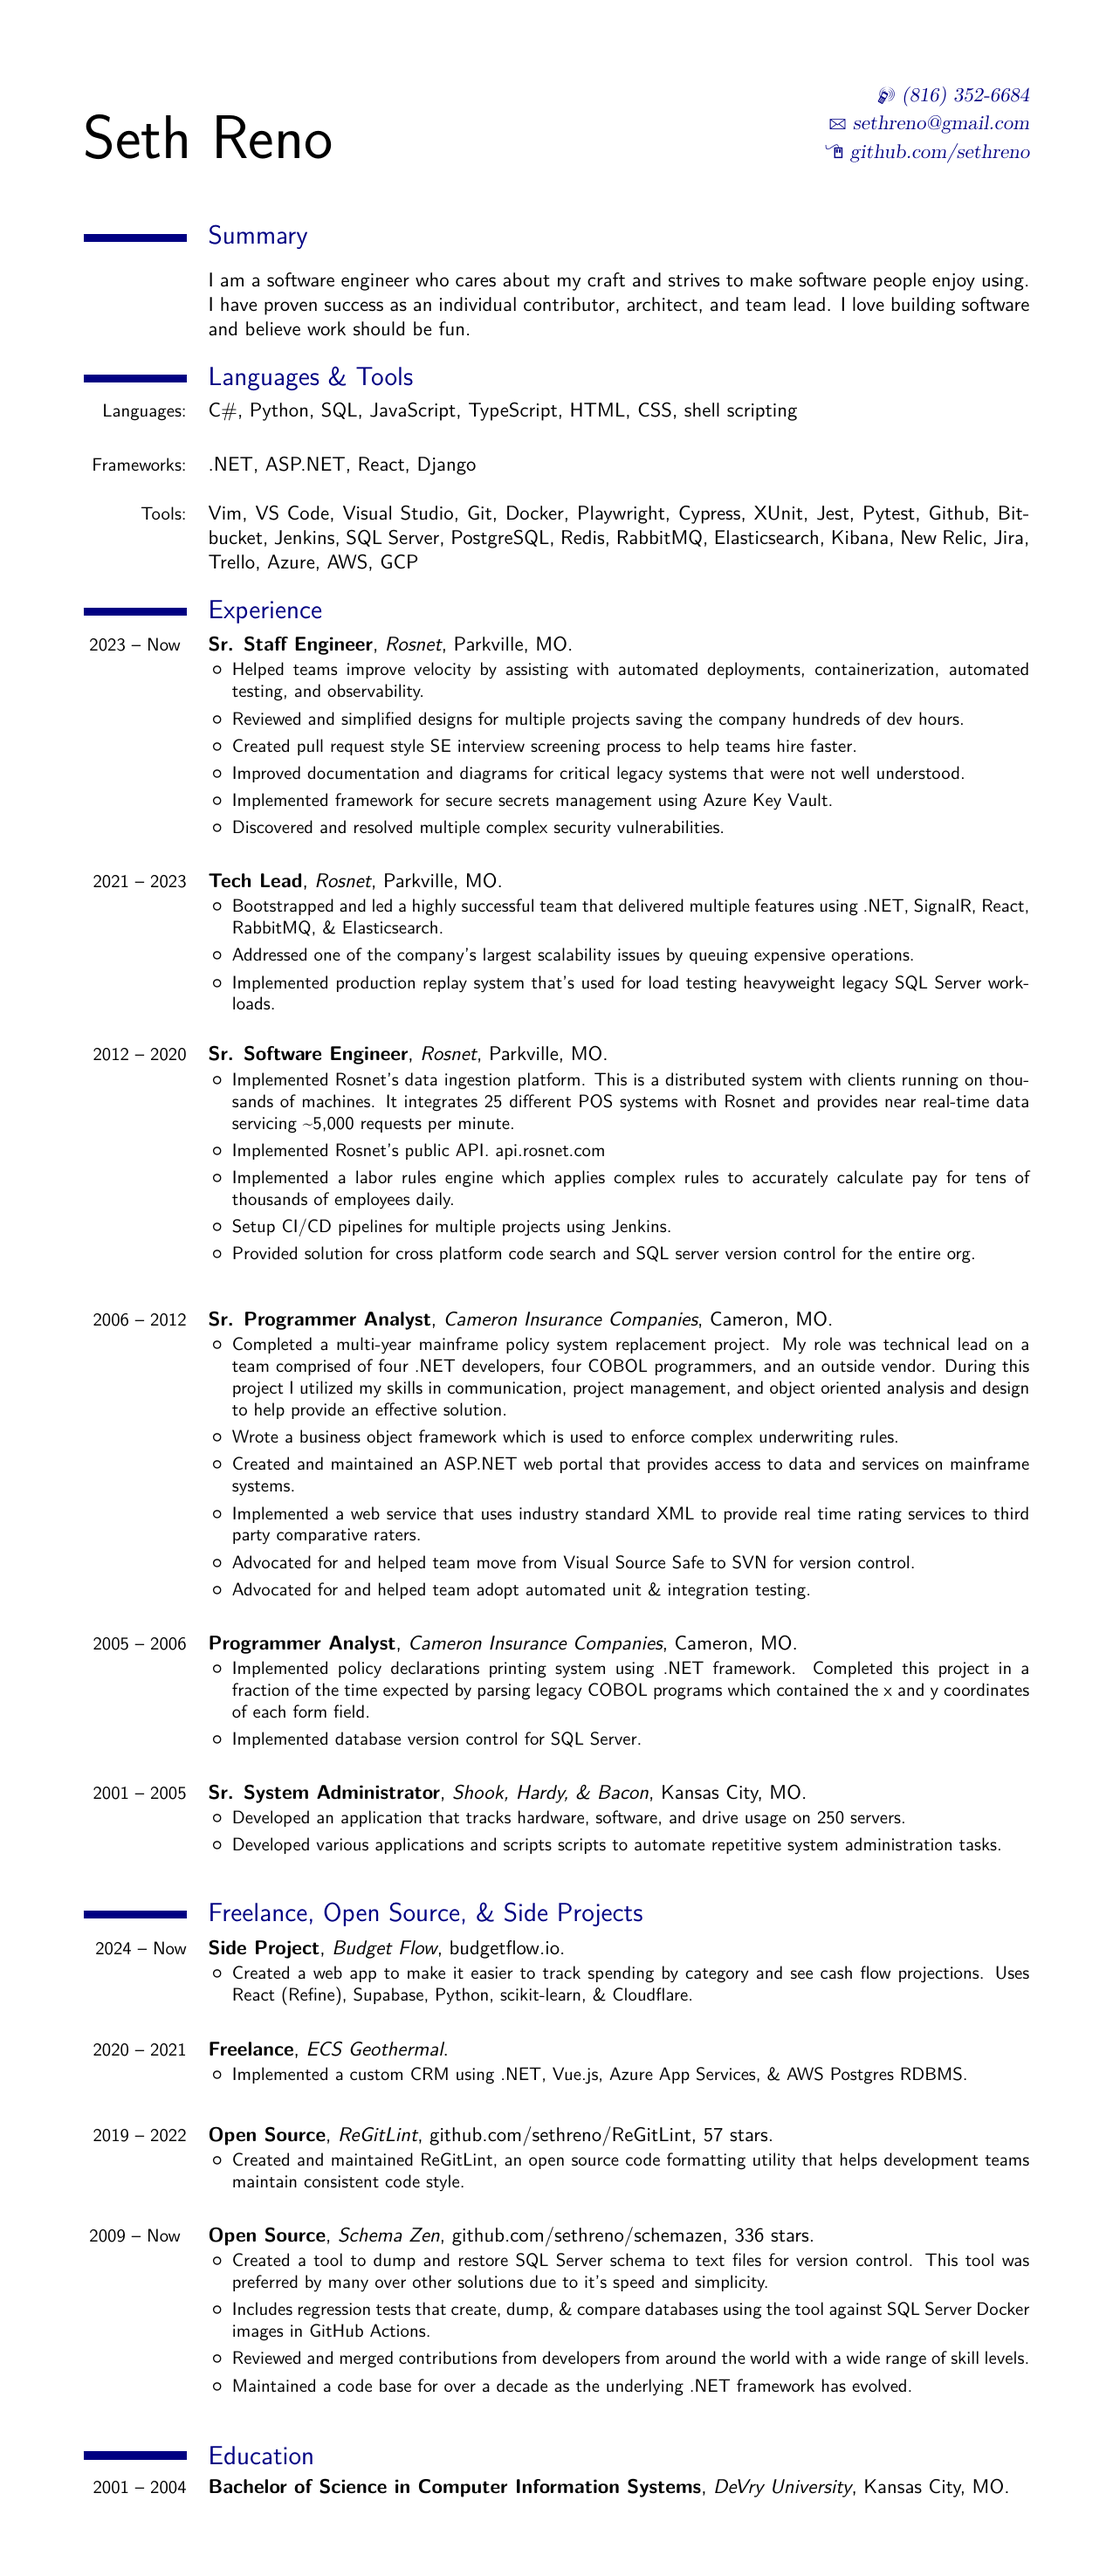
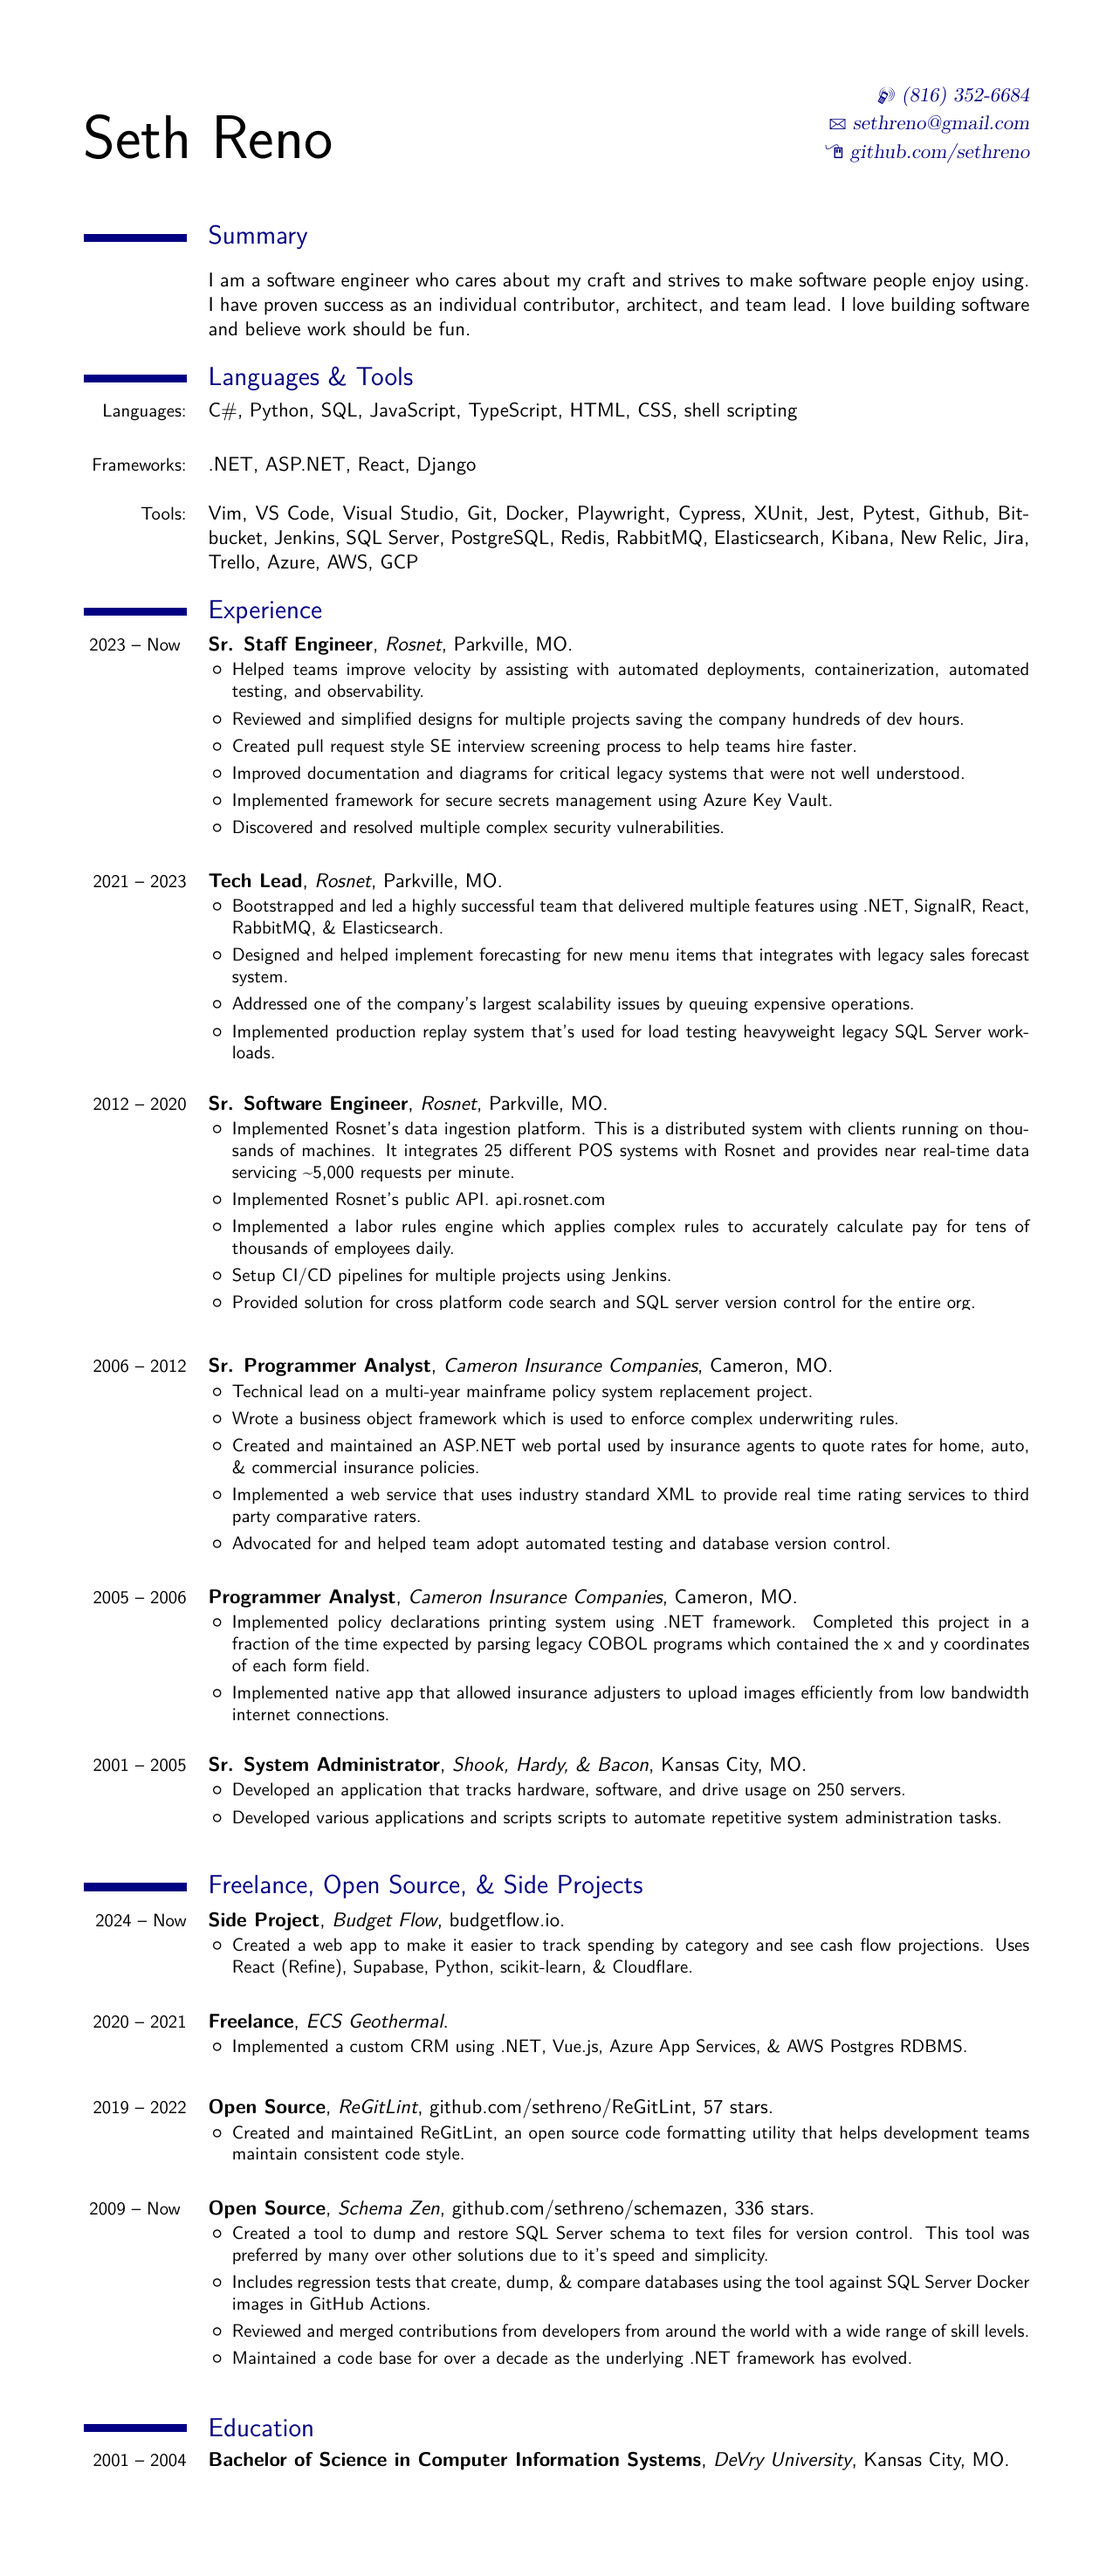
Update experience

diff --git a/src/resume.tex b/src/resume.tex
@@ -108,6 +108,9 @@ fun.
 				multiple features using .NET, SignalR, React, RabbitMQ, \&
 				Elasticsearch.
 			\item
+				Designed and helped implement forecasting for new menu
+				items that integrates with legacy sales forecast system.
+			\item
 				Addressed one of the company's largest scalability issues by
 				queuing expensive operations.
 			\item
@@ -145,29 +148,22 @@ fun.
 {2006 -- 2012} {Sr. Programmer Analyst}{Cameron Insurance Companies}{Cameron, MO}{}{
 		\begin{itemize}
 			\item 
-				Completed a multi-year mainframe policy system
-				replacement project. My role was technical lead on a
-				team comprised of four .NET developers, four COBOL
-				programmers, and an outside vendor. During this project
-				I utilized my skills in communication, project
-				management, and object oriented analysis and design to
-				help provide an effective solution.
+				Technical lead on a multi-year mainframe policy system
+				replacement project.
 			\item 
 				Wrote a business object framework which is used to enforce
 				complex underwriting rules.
 			\item 
-				Created and maintained an ASP.NET web portal that provides
-				access to data and services on mainframe systems.
+				Created and maintained an ASP.NET web portal used by
+				insurance agents to quote rates for home, auto, \&
+				commercial insurance policies.
 			\item 
 				Implemented a web service that uses industry standard XML to
 				provide real time rating services to third party comparative
 				raters.
 			\item
-				Advocated for and helped team move from Visual Source Safe to
-				SVN for version control.
-			\item
-				Advocated for and helped team adopt automated unit \& integration
-				testing.
+				Advocated for and helped team adopt automated testing
+				and database version control.
 		\end{itemize}
 }
 \linebreak
@@ -181,7 +177,9 @@ fun.
 				parsing legacy COBOL programs which contained the x and y
 				coordinates of each form field.
 			\item
-				Implemented database version control for SQL Server.
+				Implemented native app that allowed insurance adjusters
+				to upload images efficiently from low bandwidth internet
+				connections.
 		\end{itemize}
 }
 \linebreak
